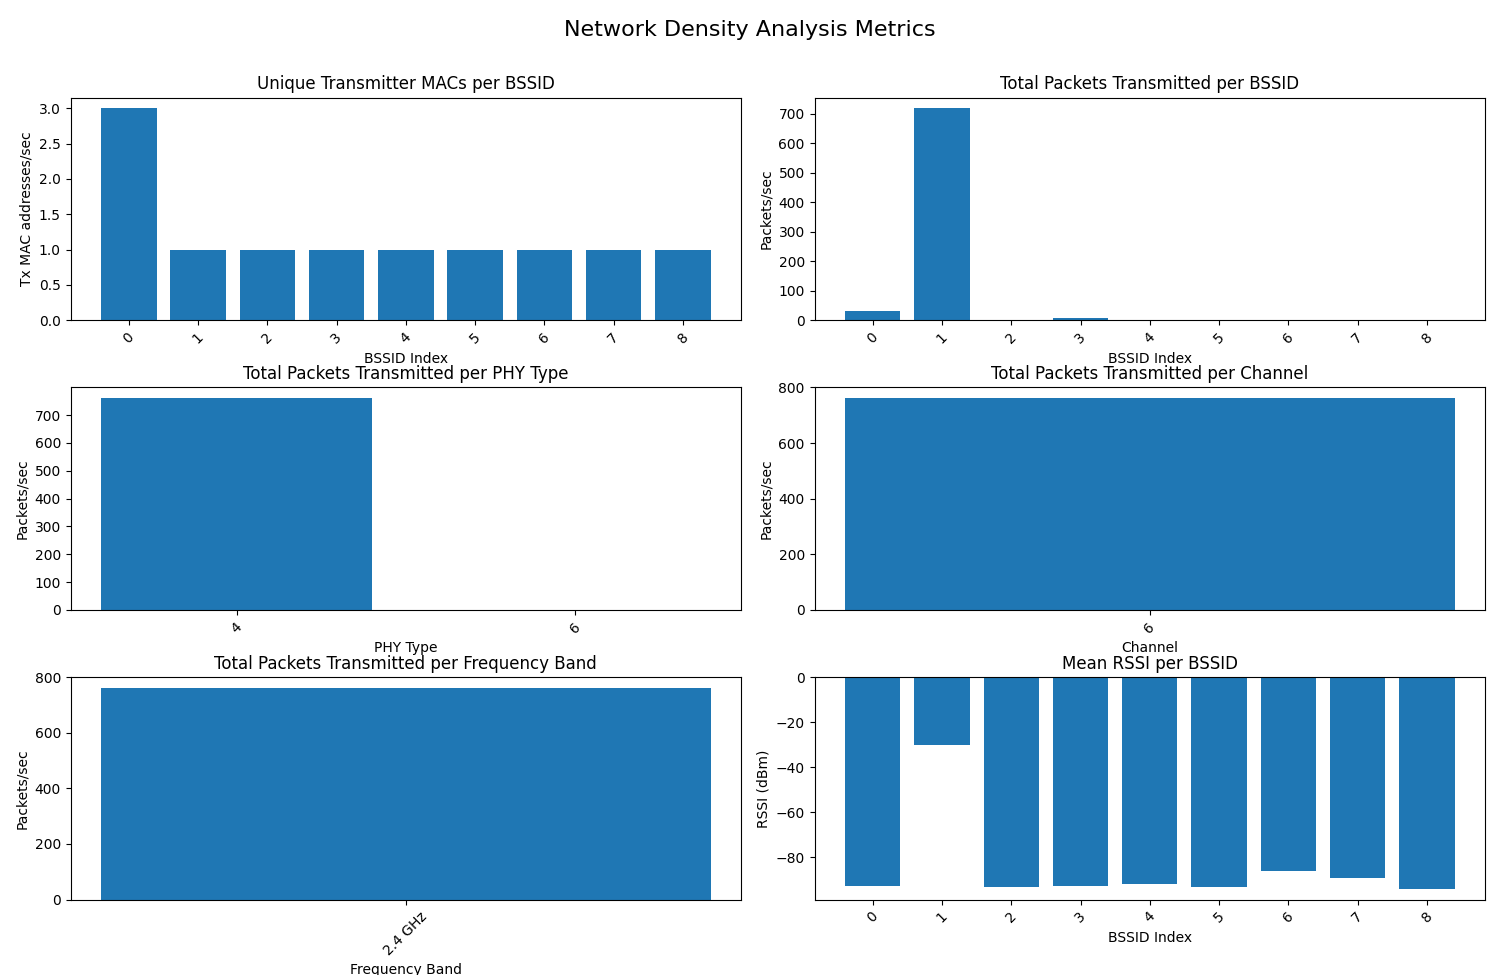
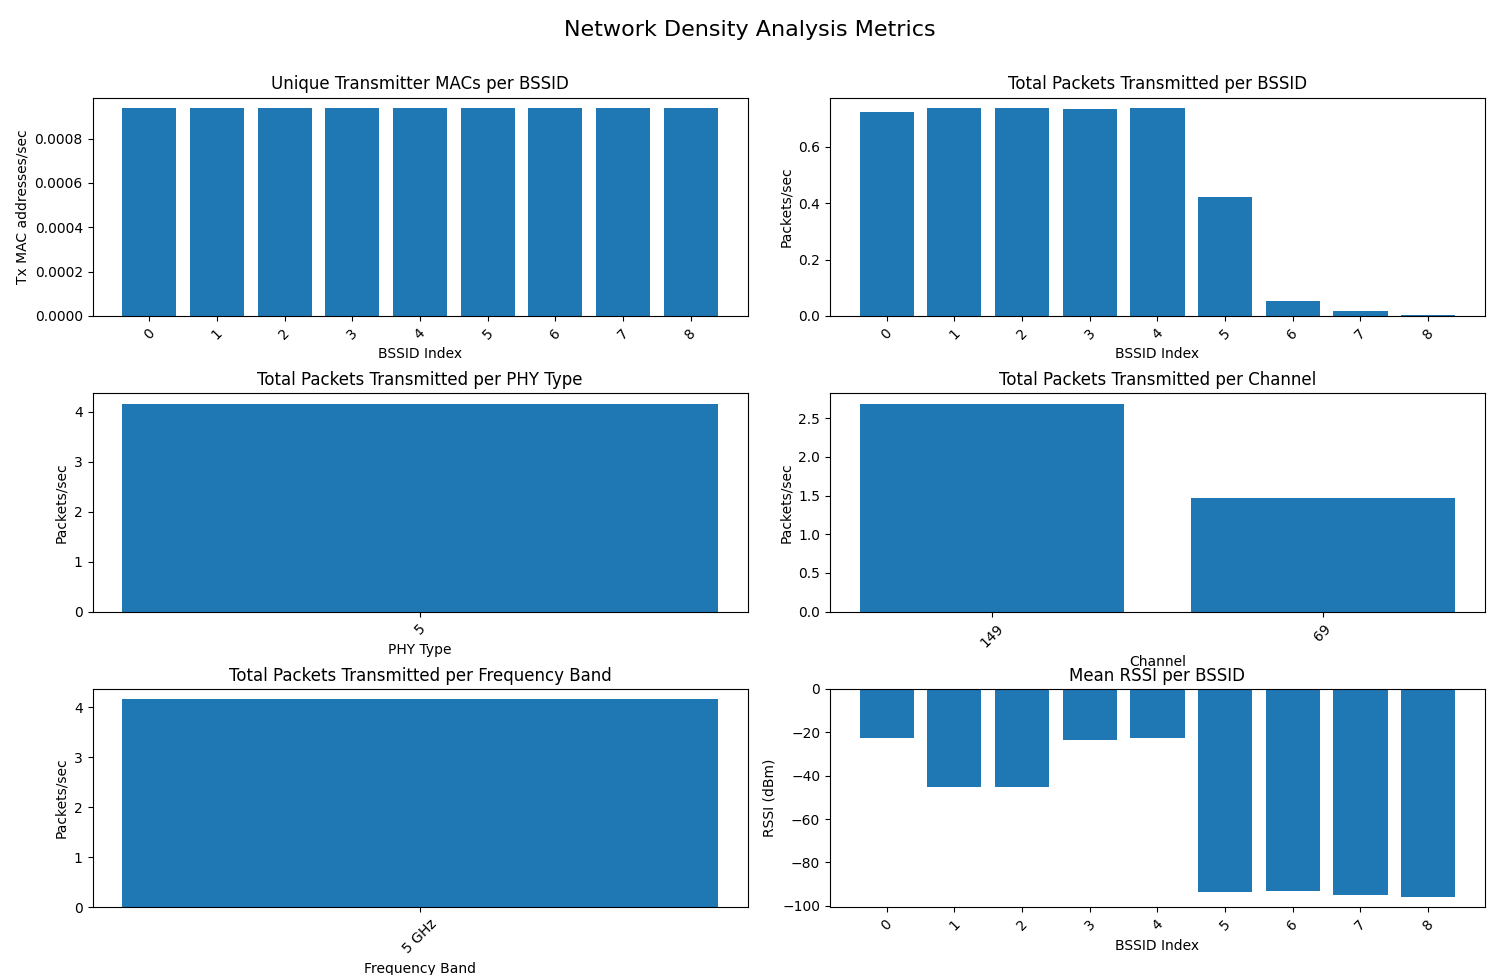
absolute in time normolization

diff --git a/data_monitor.py b/data_monitor.py
@@ -143,10 +143,10 @@ class DataMonitor:
         df['Signal Strength (dBm)'] = pd.to_numeric(df['Signal Strength (dBm)'], errors='coerce')
          
         # Calculate the total duration of capture in seconds
-        total_duration = 1#(df['TSF Timestamp'].iloc[-1] - df['TSF Timestamp'].iloc[0])/1000000
+        total_duration = abs(df['TSF Timestamp'].iloc[-1] - df['TSF Timestamp'].iloc[0])/1000000
         if (math.isnan(total_duration)):
             total_duration = 1
-        
+
         # Count unique Transmitter MACs per BSSID
         tx_macs_per_bssid = df.groupby('BSSID')['Transmitter MAC'].nunique()
         
